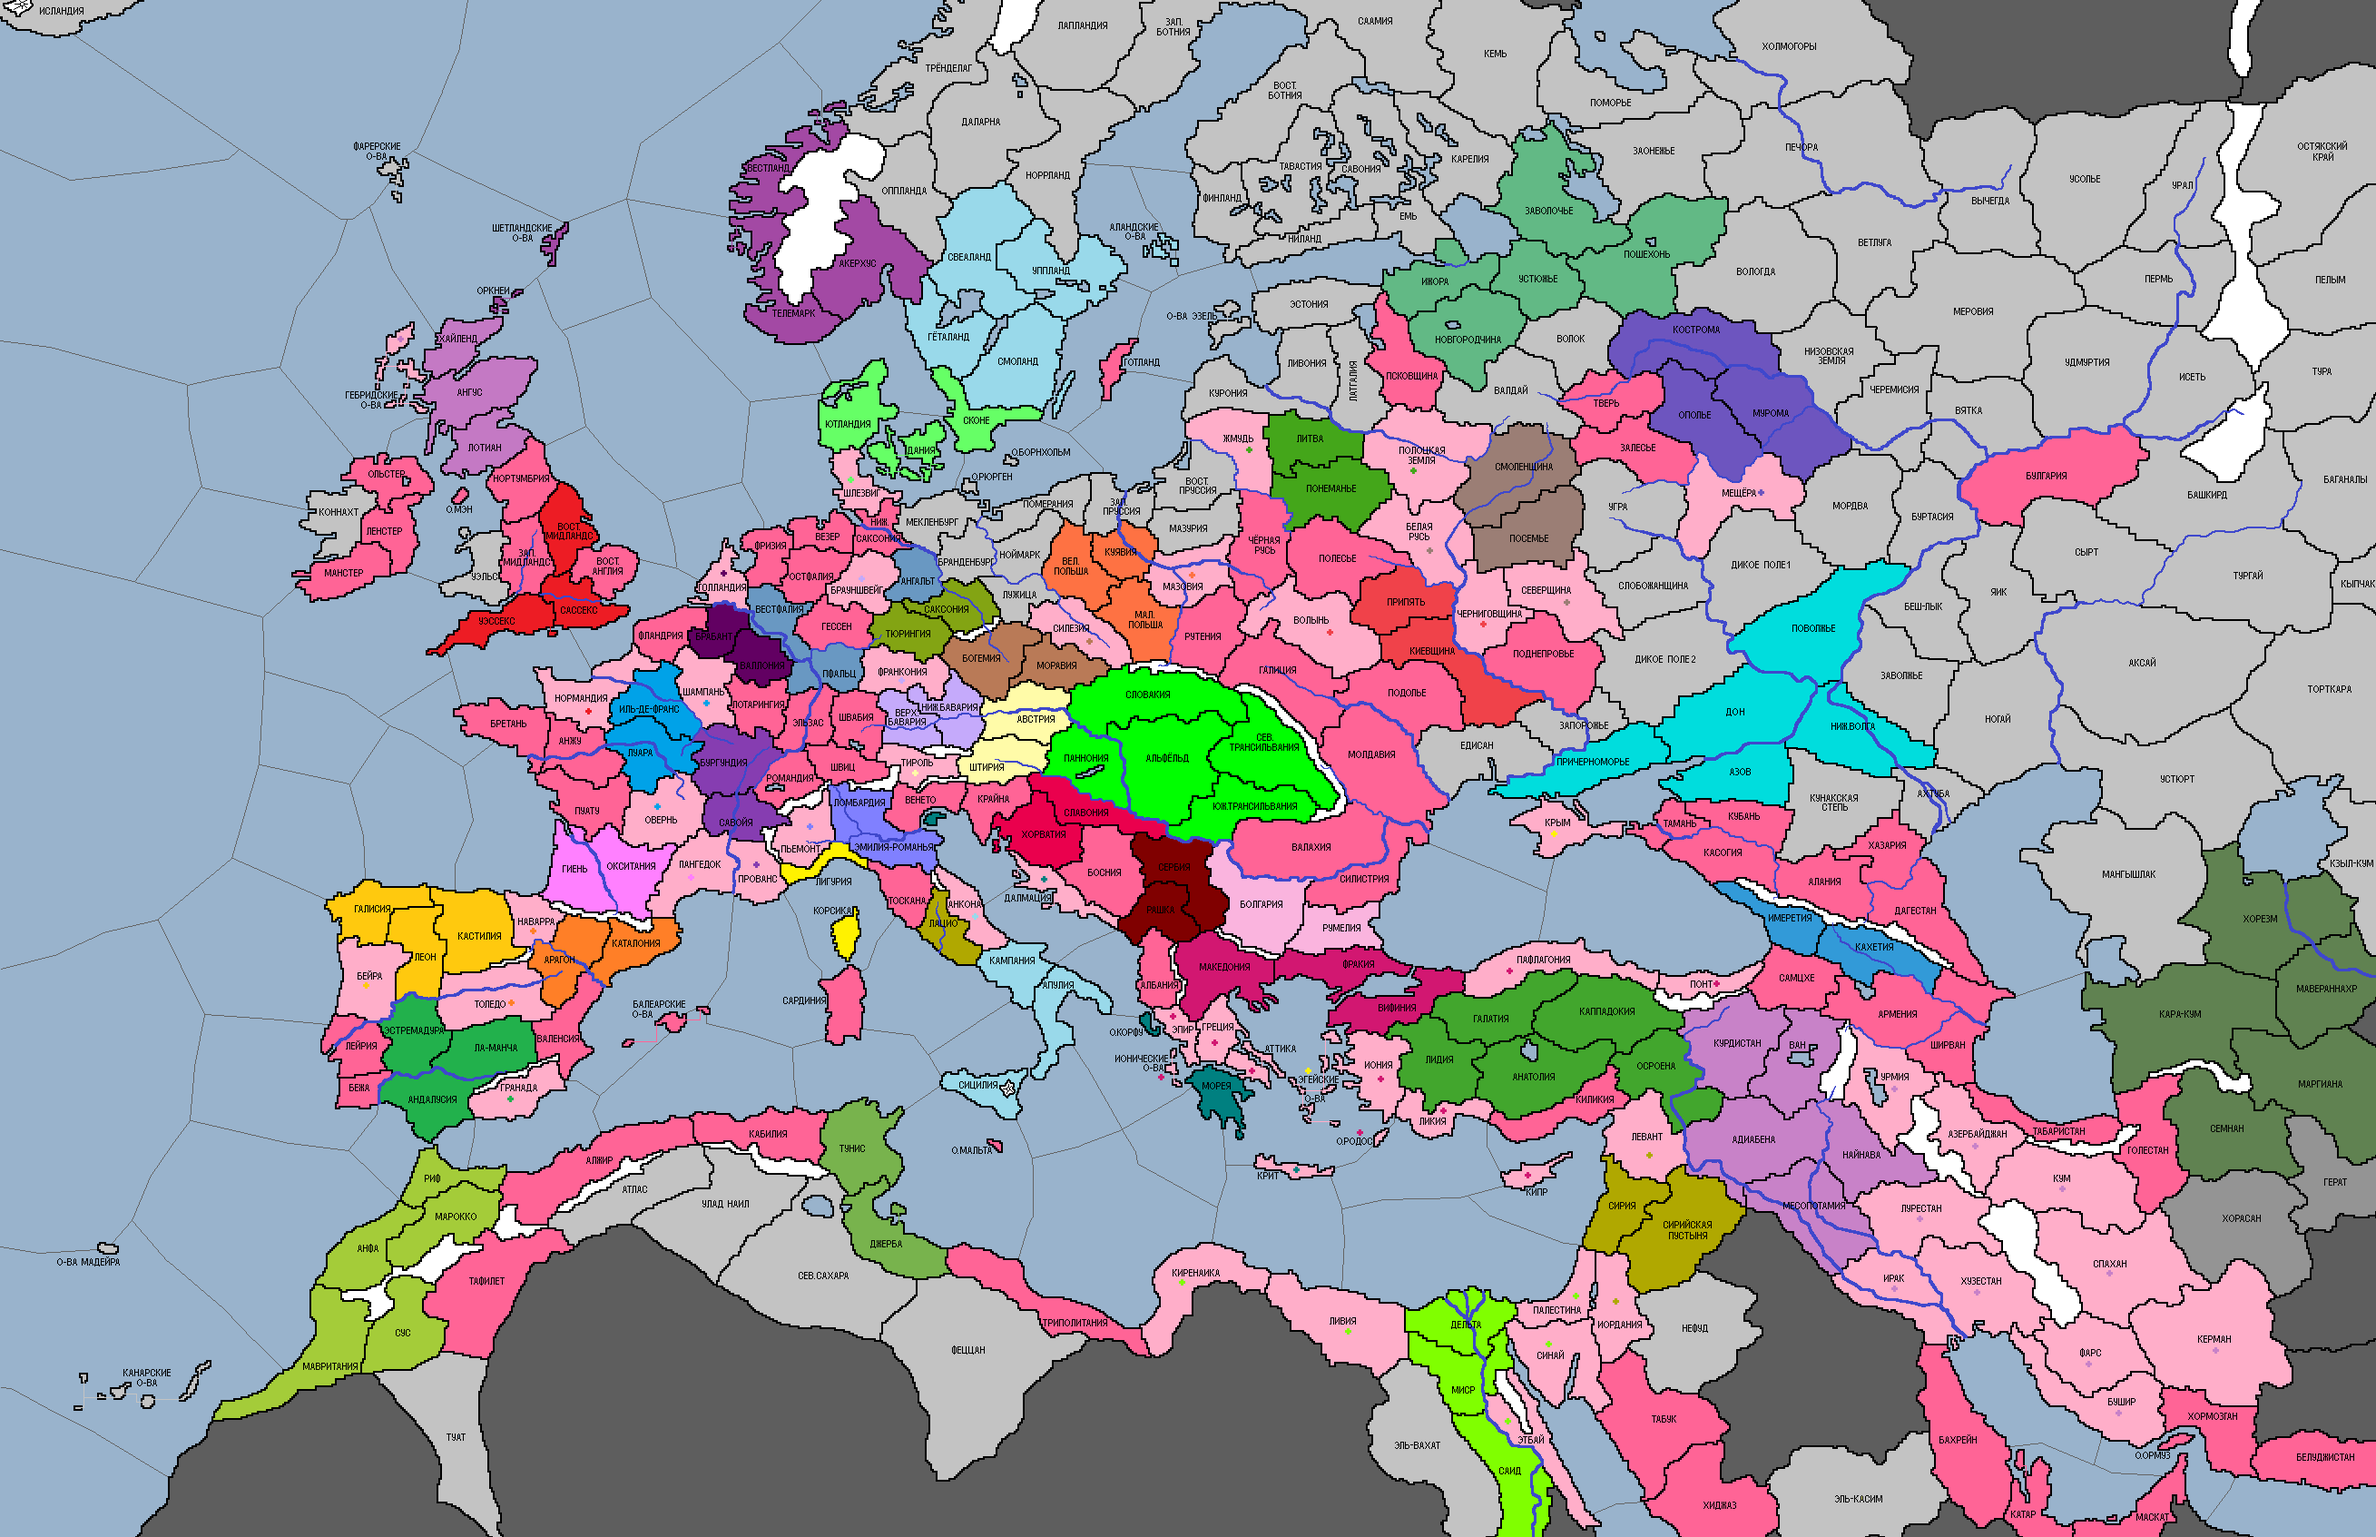
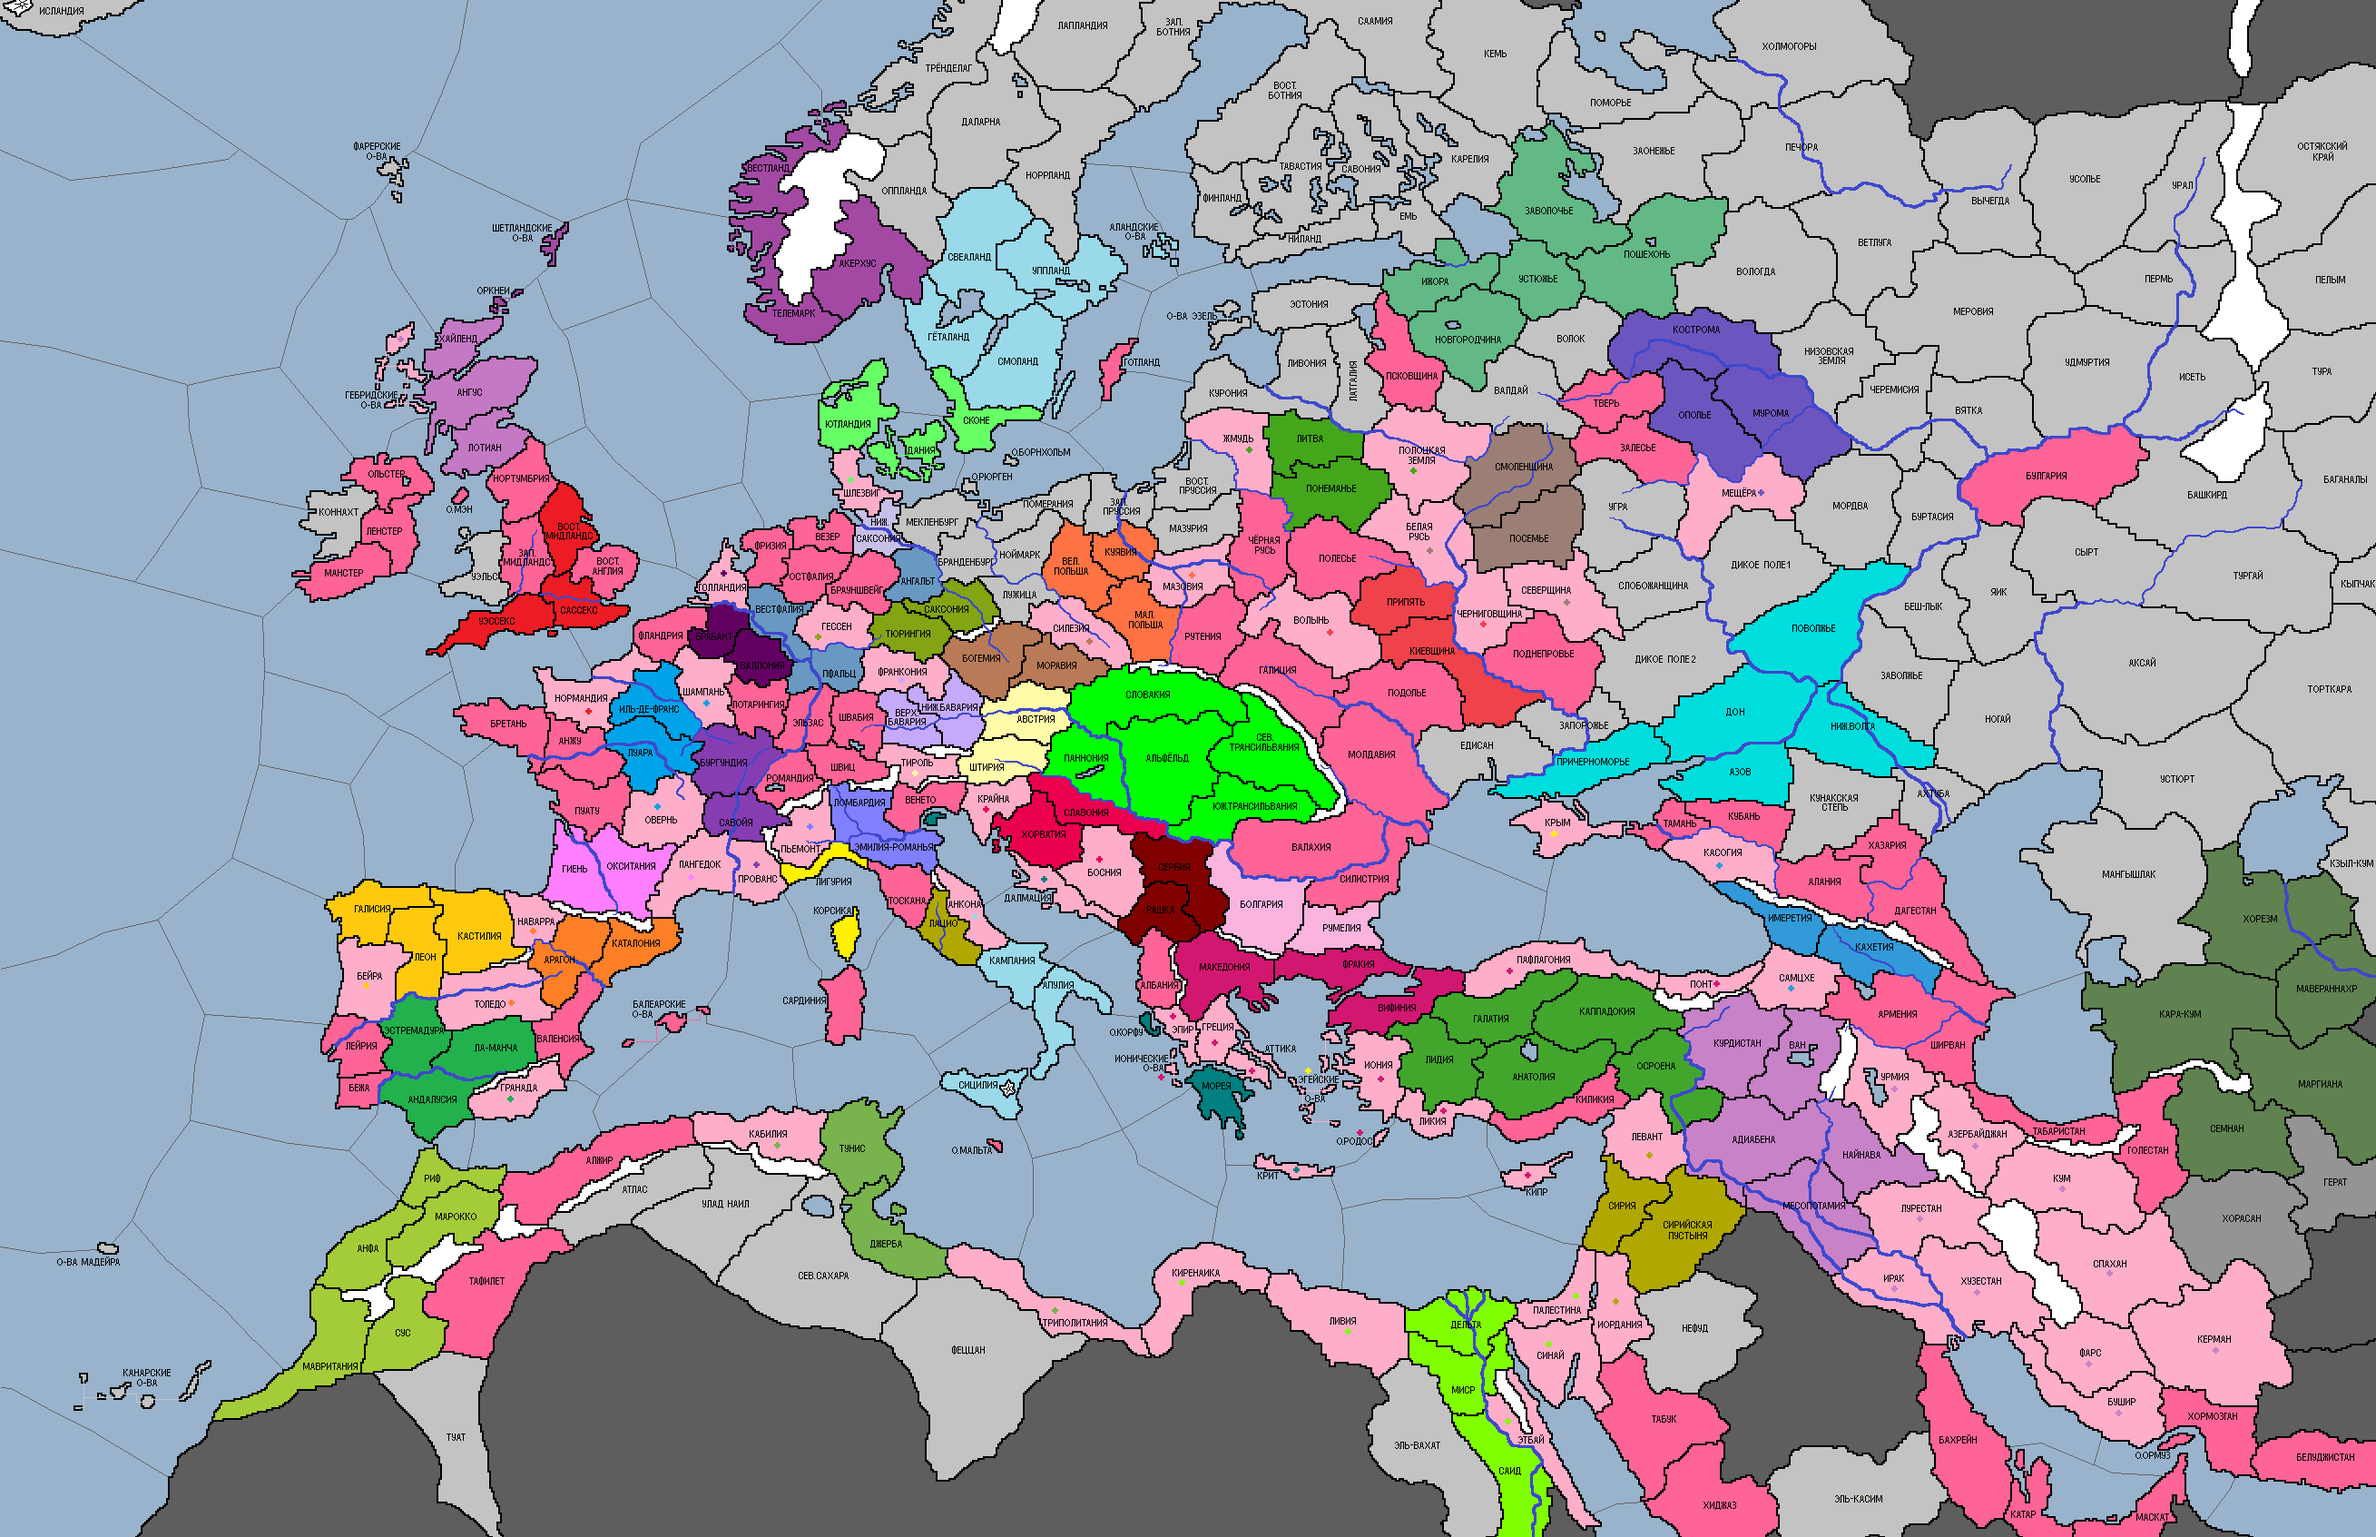
Обновление полит карты и списка игроков.

diff --git a/players.html b/players.html
@@ -113,9 +113,9 @@
             </tr>
             <tr>
                 <td class="num-pl">15</td>
-                <td>Рум</td>
-                <td>Ертуган Кенжебаев</td>
-                <td><a href="https://vk.com/ertugan91" target="_blank">"https://vk.com/ertugan91"</a></td>
+                <td>Ганза</td>
+                <td>Иеремия Кай</td>
+                <td><a href="https://vk.com/id501811382" target="_blank">"https://vk.com/id501811382"</a></td>
             </tr>
             <tr>
                 <td class="num-pl">16</td>
@@ -239,15 +239,27 @@
             </tr>
             <tr>
                 <td class="num-pl">36</td>
+                <td>Рум</td>
+                <td>Ертуган Кенжебаев</td>
+                <td><a href="https://vk.com/ertugan91" target="_blank">"https://vk.com/ertugan91"</a></td>
+            </tr>
+            <tr>
+                <td class="num-pl">37</td>
                 <td>Грузия</td>
                 <td>Артур Одинцов</td>
                 <td><a href="https://vk.com/odintsov85 " target="_blank">"https://vk.com/odintsov85 "</a></td>
             </tr>
             <tr>
-                <td class="num-pl">37</td>
+                <td class="num-pl">38</td>
                 <td>Тунис</td>
                 <td>Василий Косых</td>
                 <td><a href="https://vk.com/madbigmek " target="_blank">"https://vk.com/madbigmek "</a></td>
+            </tr>
+            <tr>
+                <td class="num-pl">39</td>
+                <td>Хорватия</td>
+                <td>Богдан Бесчерепов</td>
+                <td><a href="https://vk.com/bescherepov" target="_blank">"https://vk.com/bescherepov"</a></td>
             </tr>
         </table>
 

diff --git a/log.html b/log.html
@@ -23,6 +23,7 @@
         <p>История изменений:</p>
         <!-- <p>14.06.2023: <a href="turns/turn12.html">Добавлен 12 ход</a></p> -->
         
+        <p>21.02.2026: Обновлена политическая карта(Грузия, Тунис, Ховатия, Ганза). Добавлены игроки(Ганза, Хорватия).</p>
         <p>18.02.2026: Добавлена таблица стартовых военных технологий. Добавлен игрок на Руме.</p>
         <p>15.02.2026: Добавлены карты: политическая, климат, этносы, ресурсы. Добавлен список игроков с ссылками.</p>
     </div>
